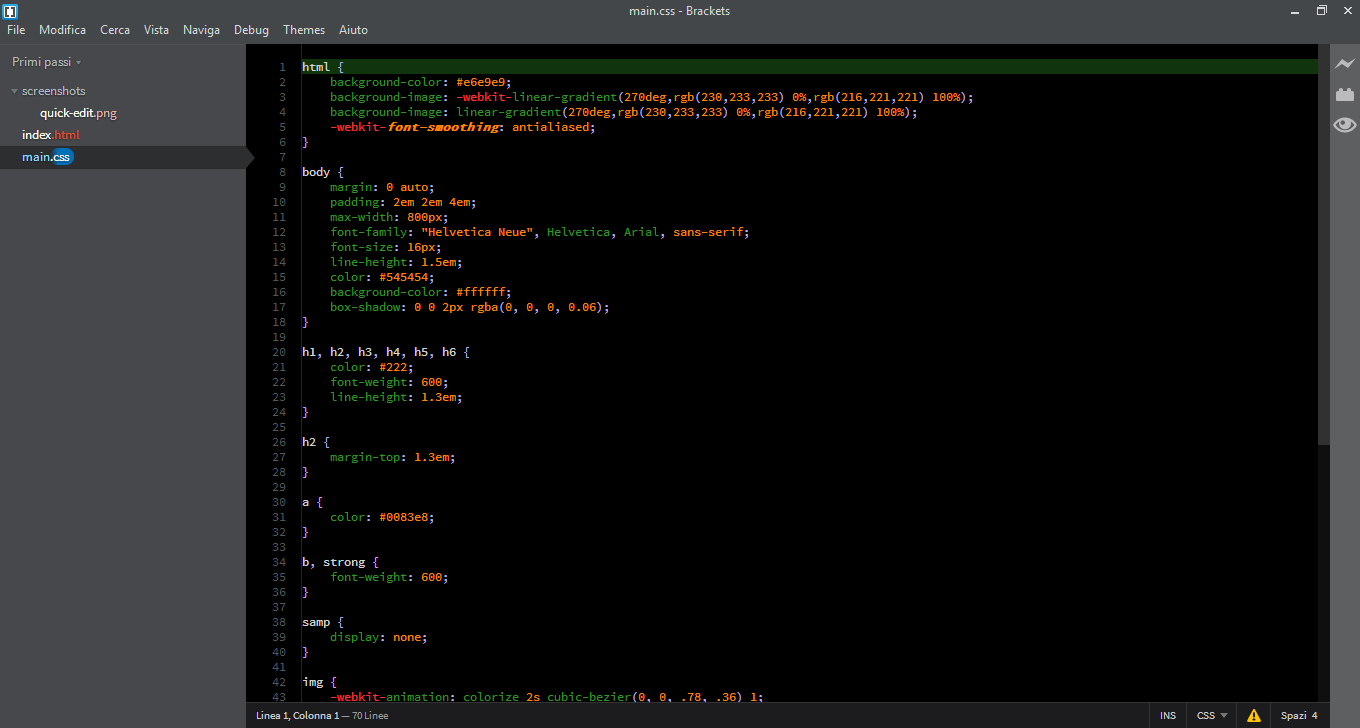
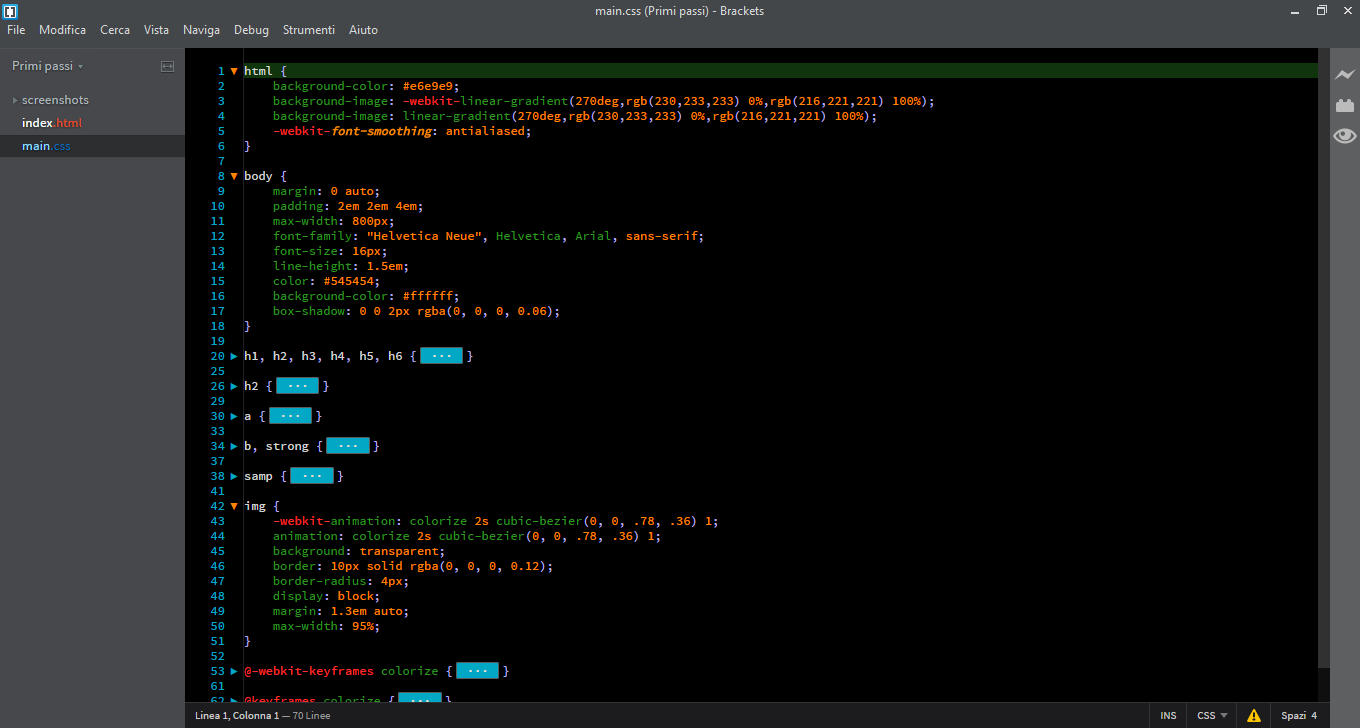
v 0.2.0

diff --git a/nature.css b/nature.css
@@ -144,3 +144,27 @@ color: trasparent !important;
 .CodeMirror-searching.searching-current-match {
     background-color: #ff8500;
 }
+
+/* Code Folding (https://github.com/thehogfather/brackets-code-folding) and Brackets 1.3 (Code Folding)*/
+.CodeMirror-foldgutter,
+.CodeMirror-foldgutter,
+.CodeMirror-foldgutter-blank,
+.CodeMirror-foldgutter-folded,
+.CodeMirror-foldgutter-open,
+
+.CodeMirror-foldgutter-folded::after{
+    color: #00a8c6;
+}
+
+.CodeMirror-foldgutter-open:after {/*content: "\25bd";*/ color: #ff8500;}
+.CodeMirror-foldmarker {background-color: #00A8C6; border-color: #5C5C5C; color: #ede0ce; padding: 0 10px;}
+
+/* Show Whitespace (https://github.com/DennisKehrig/brackets-show-whitespace)*/
+.CodeMirror .cm-dk-whitespace-space::before,
+.CodeMirror .cm-dk-whitespace-tab::before,
+.CodeMirror .cm-dk-whitespace-leading-space::before,
+.CodeMirror .cm-dk-whitespace-leading-tab::before,
+.CodeMirror .cm-dk-whitespace-trailing-space::before,
+.CodeMirror .cm-dk-whitespace-trailing-tab::before {
+    background-color: #00a8c6 !important;
+}

diff --git a/CHANGELOG.md b/CHANGELOG.md
@@ -13,3 +13,8 @@ v 0.1.2
 v 0.1.3
 
 * Remove main.js Brackets 1.0.0
+
+v 0.2.0
+
+* Add Show Whitespace (https://github.com/DennisKehrig/brackets-show-whitespace)
+* Add Code Folding (https://github.com/thehogfather/brackets-code-folding) and Brackets 1.3 (Code Folding)
